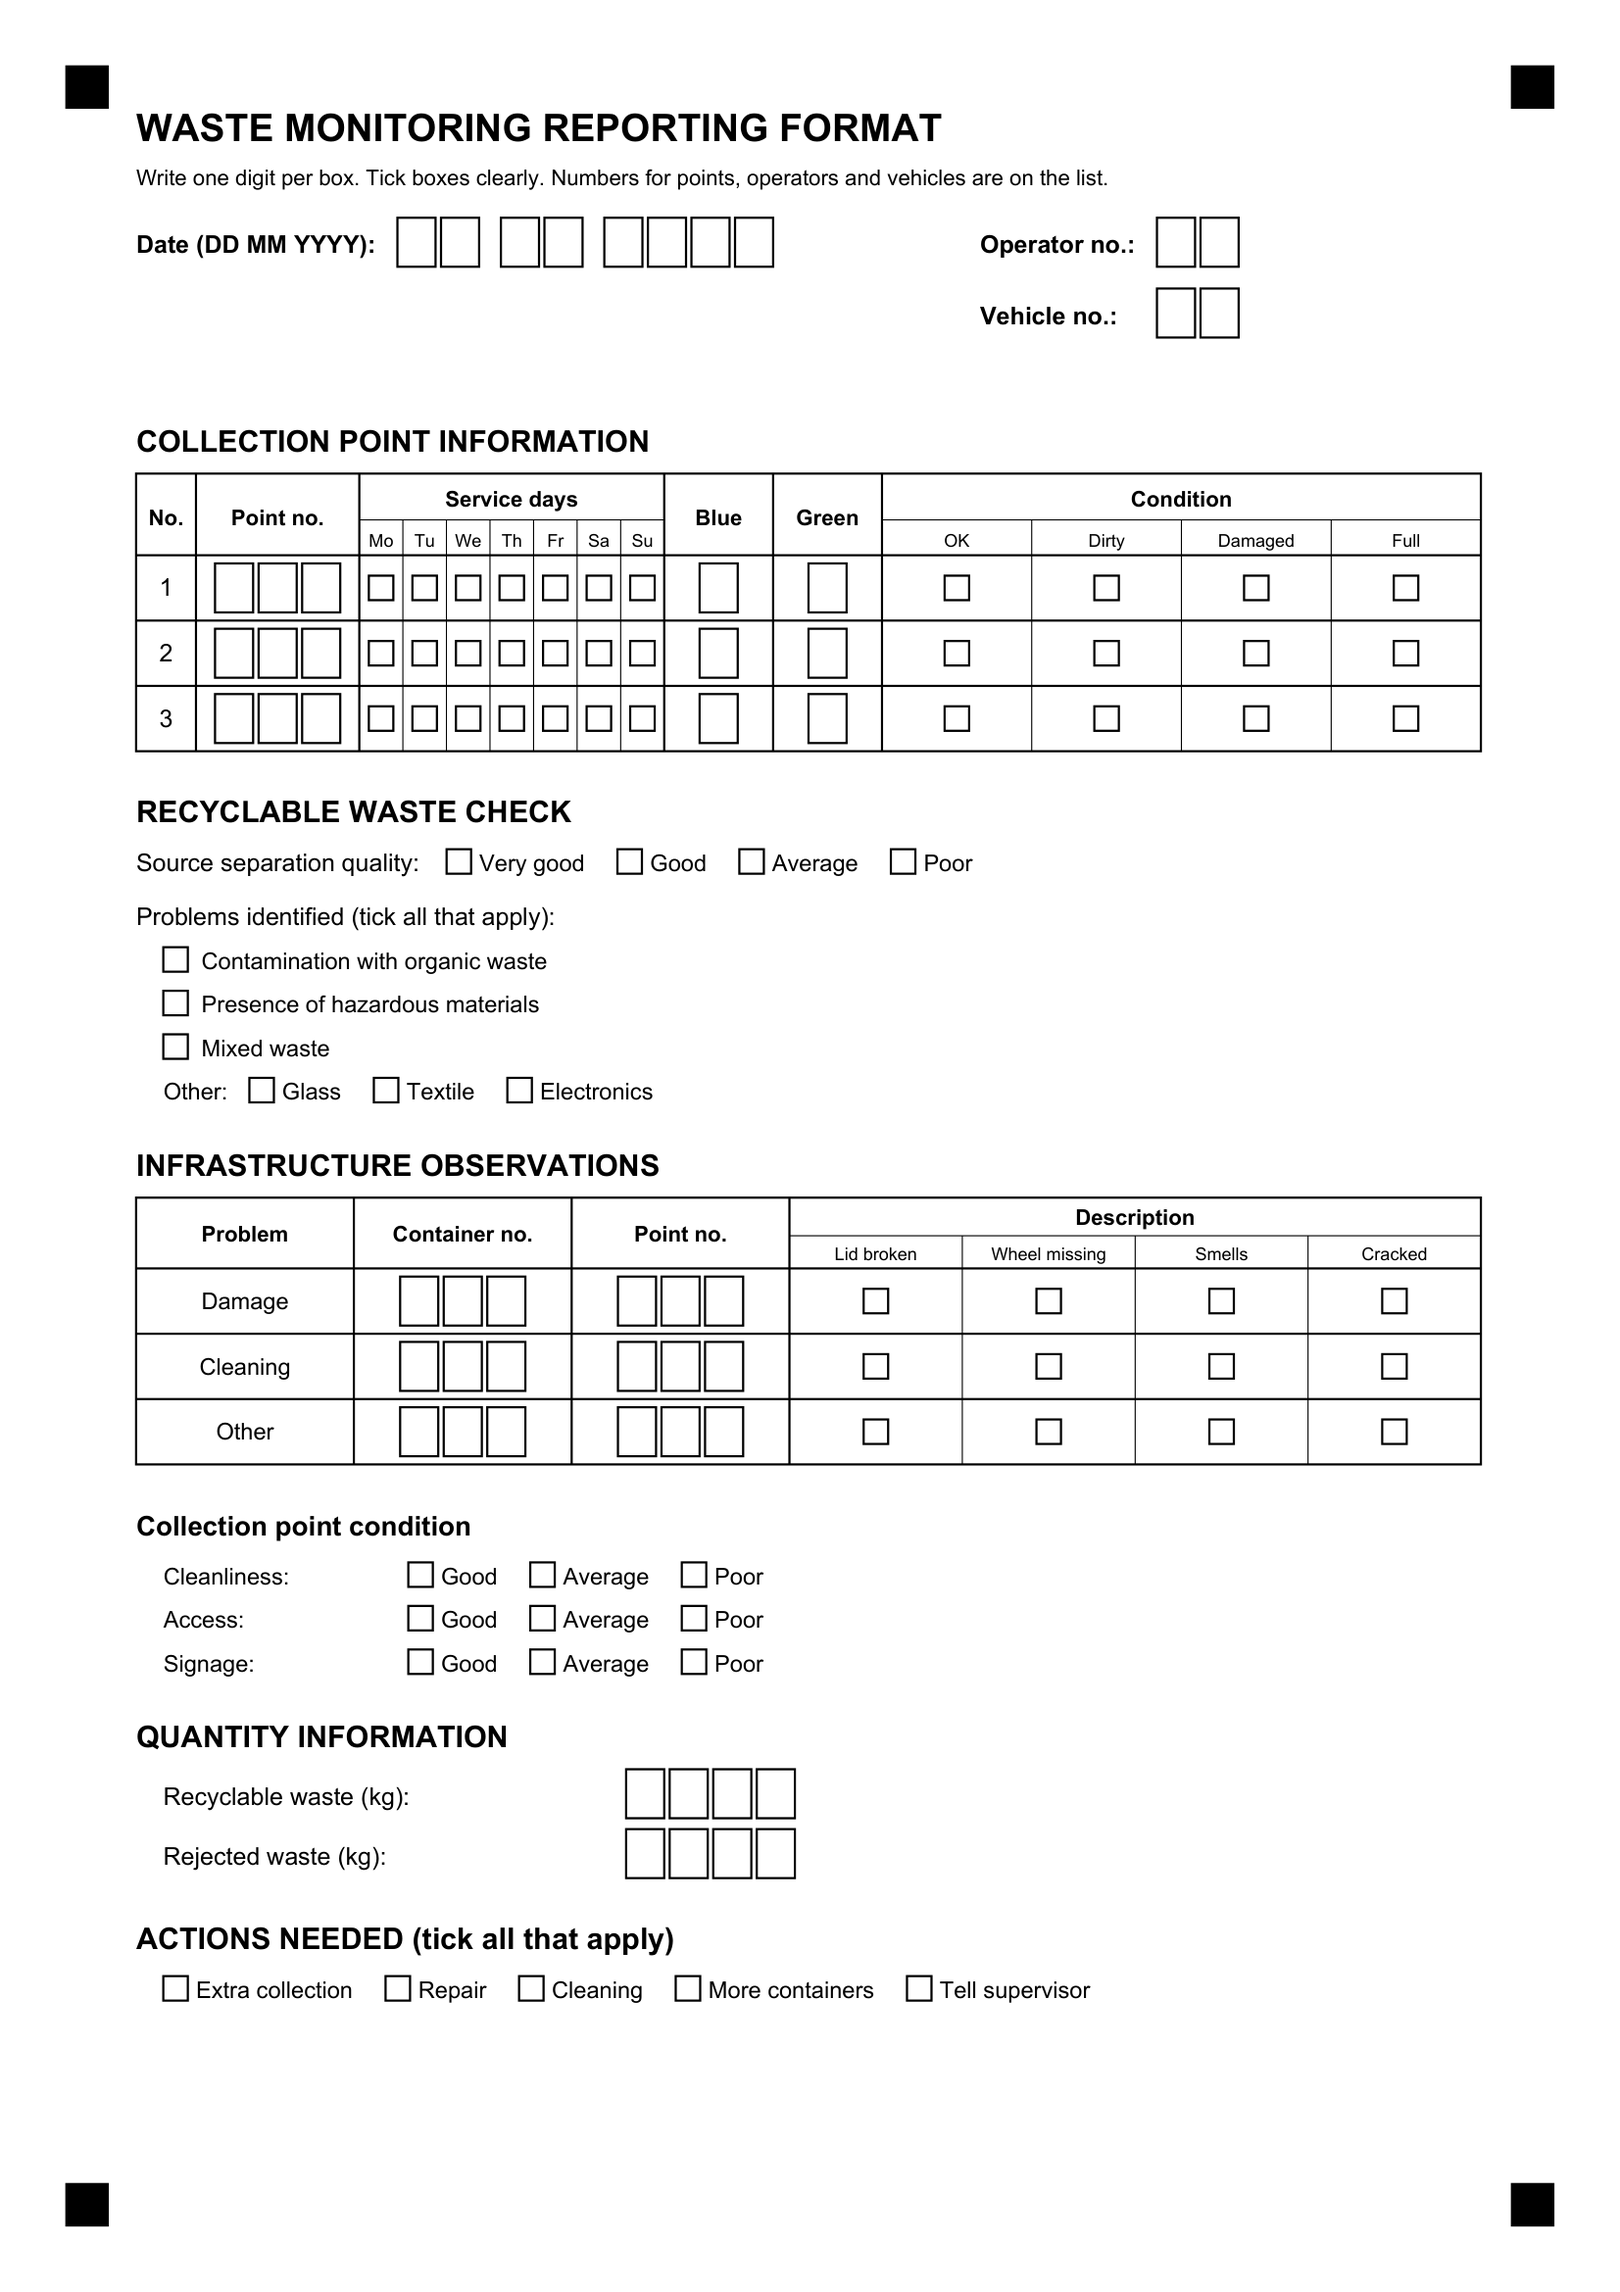
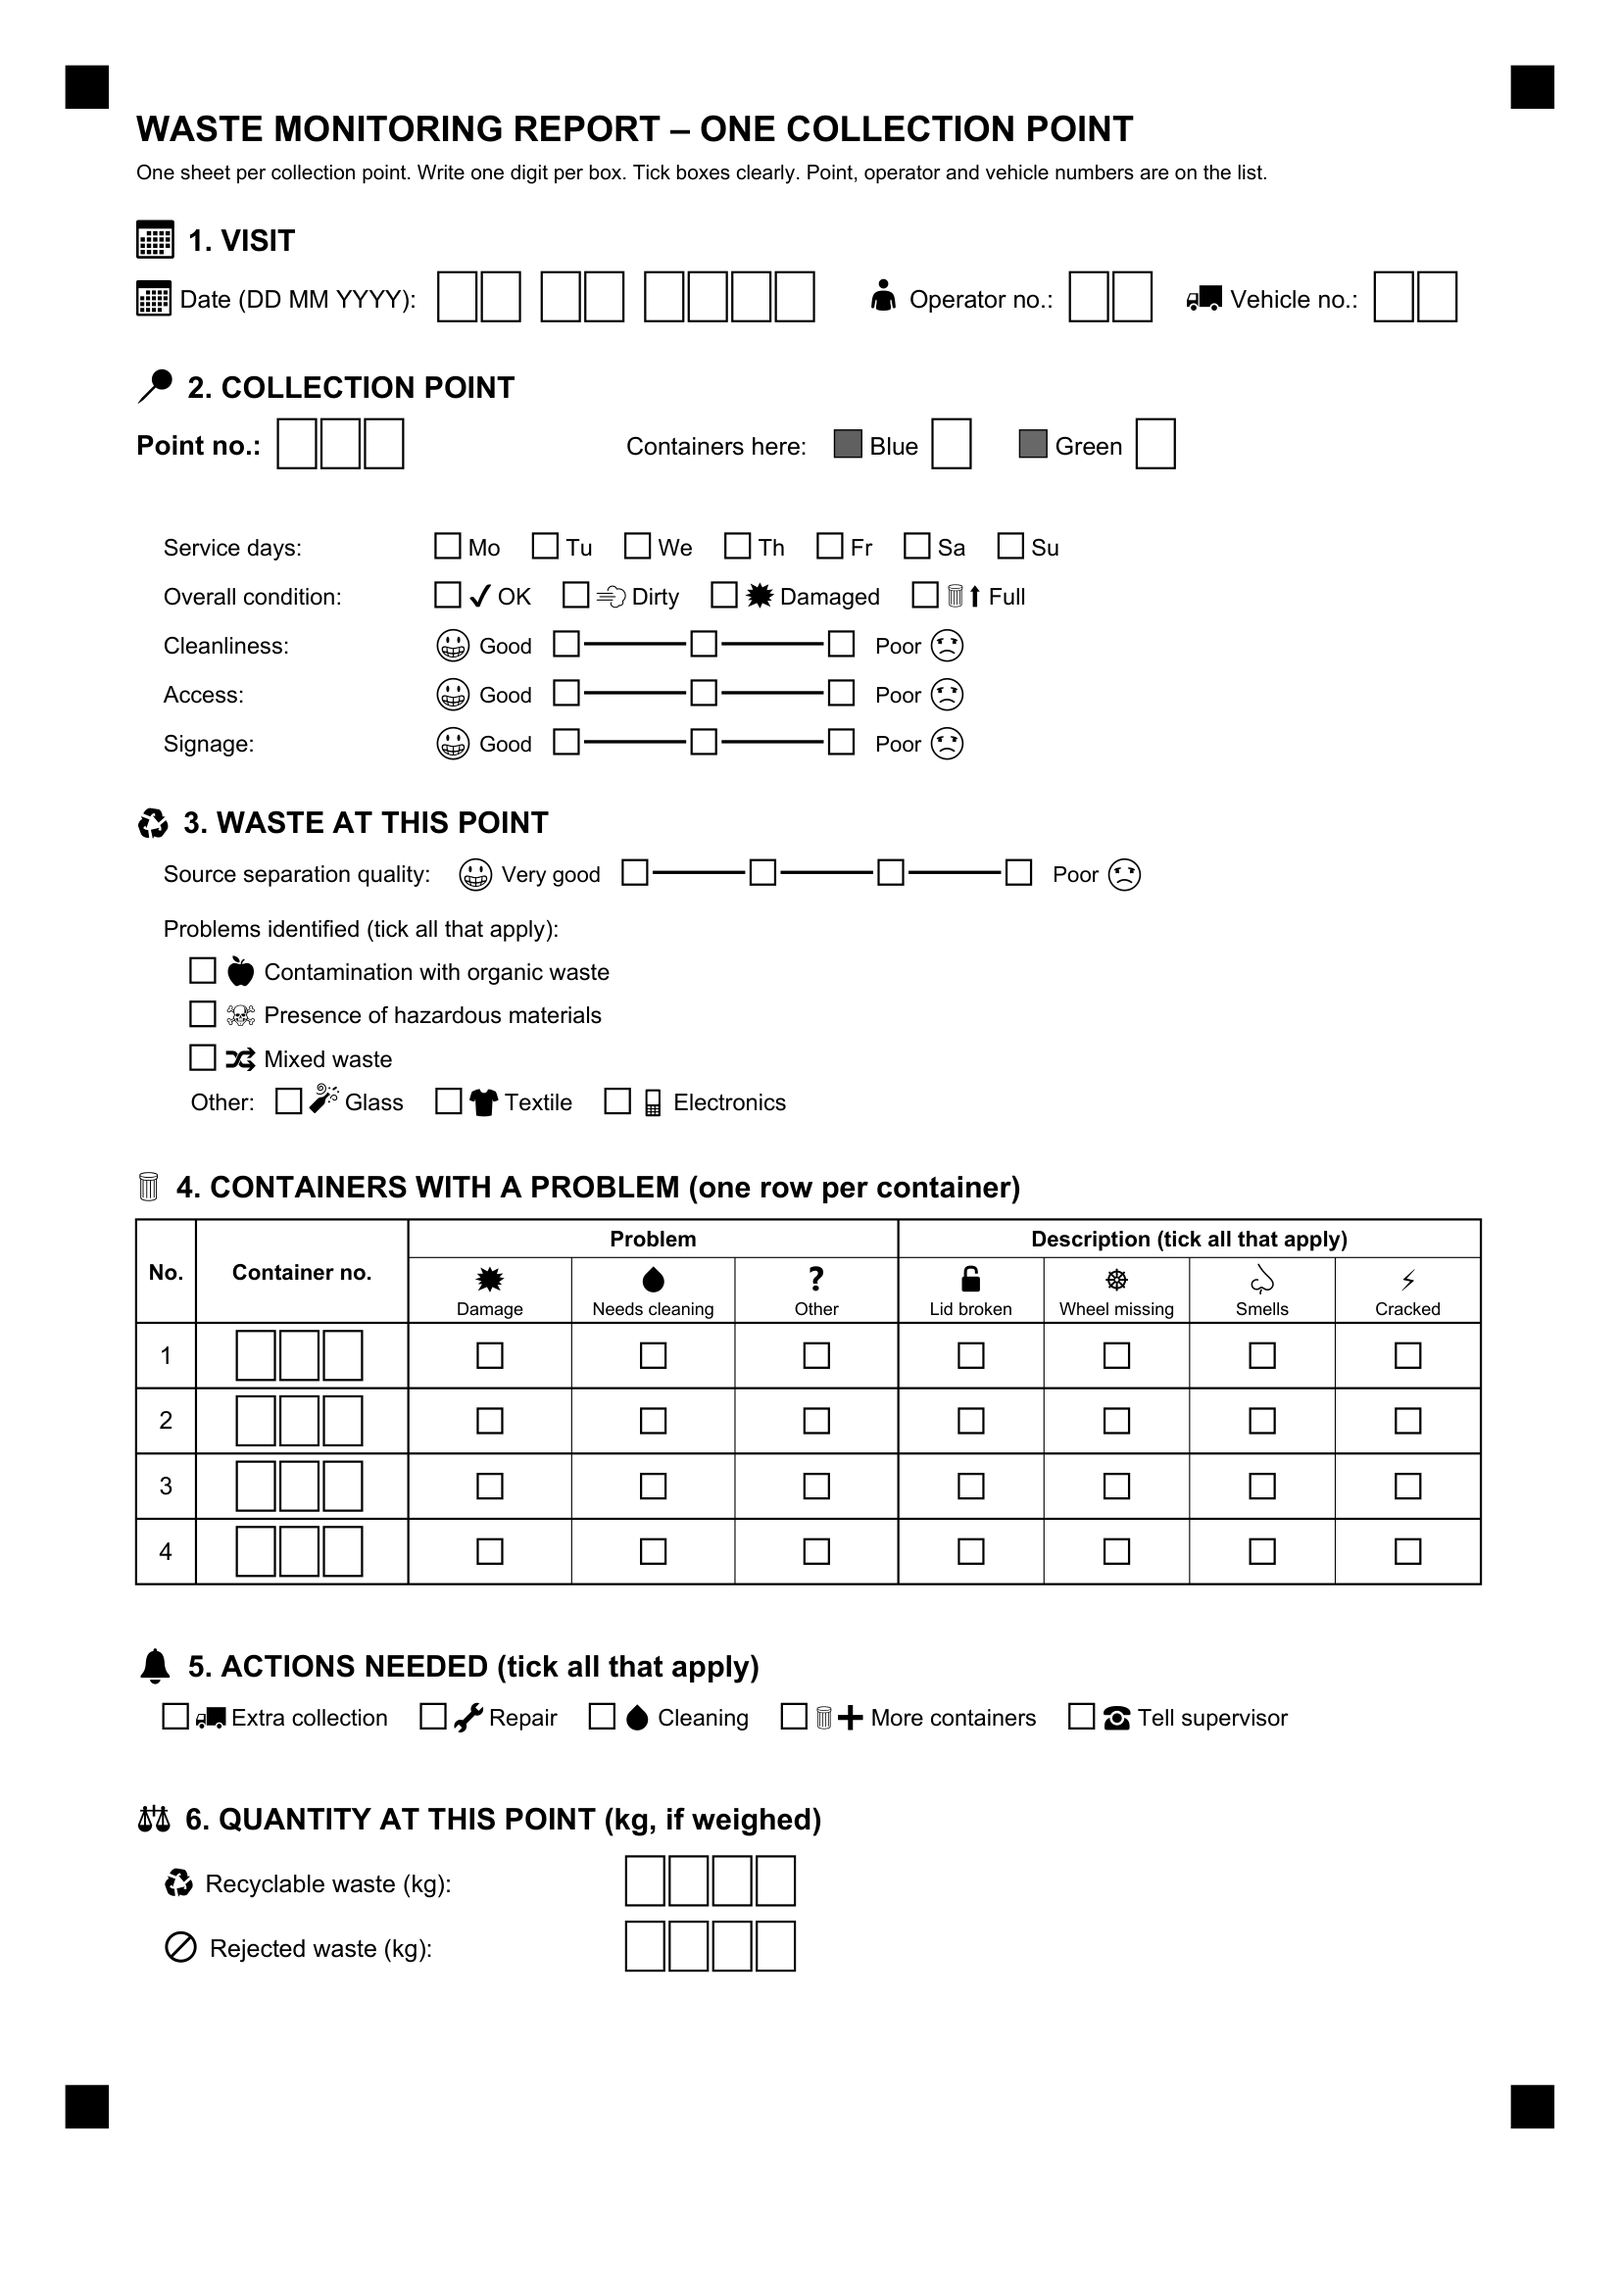
Updated form

diff --git a/employee.html b/employee.html
@@ -26,8 +26,8 @@
   <!-- Employee buttons: shown after the correct PIN -->
   <main id="employee-links" class="buttons" hidden>
     <!-- Electronic Kobo form: opens the Albanian or English form to match the language switch -->
-    <a class="big-button employee" href="https://ee.kobotoolbox.org/x/u7u8n4D3"
-       data-href-sq="https://ee.kobotoolbox.org/x/u7u8n4D3" data-href-en="https://ee.kobotoolbox.org/x/ijLCKRma"><span class="icon">📝</span><span data-i18n="container_report">Container Waste Report</span></a>
+    <a class="big-button employee" href="https://ee.kobotoolbox.org/x/QgzXwNg5"
+       data-href-sq="https://ee.kobotoolbox.org/x/QgzXwNg5" data-href-en="https://ee.kobotoolbox.org/x/4aufJuJm"><span class="icon">📝</span><span data-i18n="container_report">Container Waste Report</span></a>
     <!-- Scan the paper sheet (v2) on the phone; opens the Kobo form pre-filled to check and send -->
     <a class="big-button employee" href="scan.html"><span class="icon">🧾</span><span data-i18n="scan_form">Scan paper form</span></a>
     <button id="lock" class="small-button"><span data-i18n="lock">Lock</span> 🔒</button>
